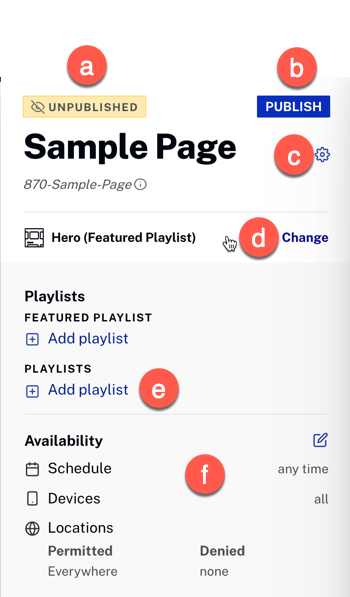
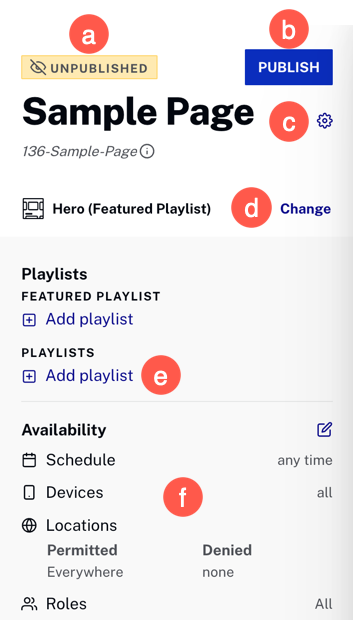
Update Creating and Managing Pages doc to include content and screenshots that use ROLES

diff --git a/_site/layout/creating-managing-pages.html b/_site/layout/creating-managing-pages.html
@@ -3279,7 +3279,7 @@ function doGTranslate(lang_pair) {if(lang_pair.value)lang_pair=lang_pair.value;i
       The page settings <img class="imageWithText" src="/assets/images/s-layout-img/page-settings-3.png" alt="stamp number 3"> that can be configured are:
       <ul>
         <li>Title & Translations</li>
-        <li>Availability (<strong>Schedule</strong>, <strong>Devices</strong> and <strong>Locations</strong>)</li>
+        <li>Availability (<strong>Schedule</strong>, <strong>Devices</strong>, <strong>Locations</strong> and <strong>Roles</strong>)</li>
         <li><strong>Archive page</strong> button</li>
       </ul>
       <li>If you wish to return to the list of pages, click the vertical <span class="button-blue-text">Back to All Pages</span> link. The page that was created is displayed in the list of pages.</li>
@@ -3295,7 +3295,6 @@ function doGTranslate(lang_pair) {if(lang_pair.value)lang_pair=lang_pair.value;i
   <section class="bcls-section">
     <h2 id="edit">Editing pages</h2>
     <p>To edit a page, from the <strong>Layout</strong> module index page, click on the page to edit. The page settings are displayed.</p>
-
     <figure class="bcls-figure"><img class="bcls-image" alt="" src="/assets/images/s-layout-img/pages-settings.png" /></figure>
     <h3 id="page-title">Editing the page title</h3>
     <p>To edit the page title, click <img class="ui-image" alt="" src="/assets/images/common/gear-blue.png" /> next to the page title and enter a new title. You can also edit the title in multiple languages, if they are enabled for your apps.</p>
